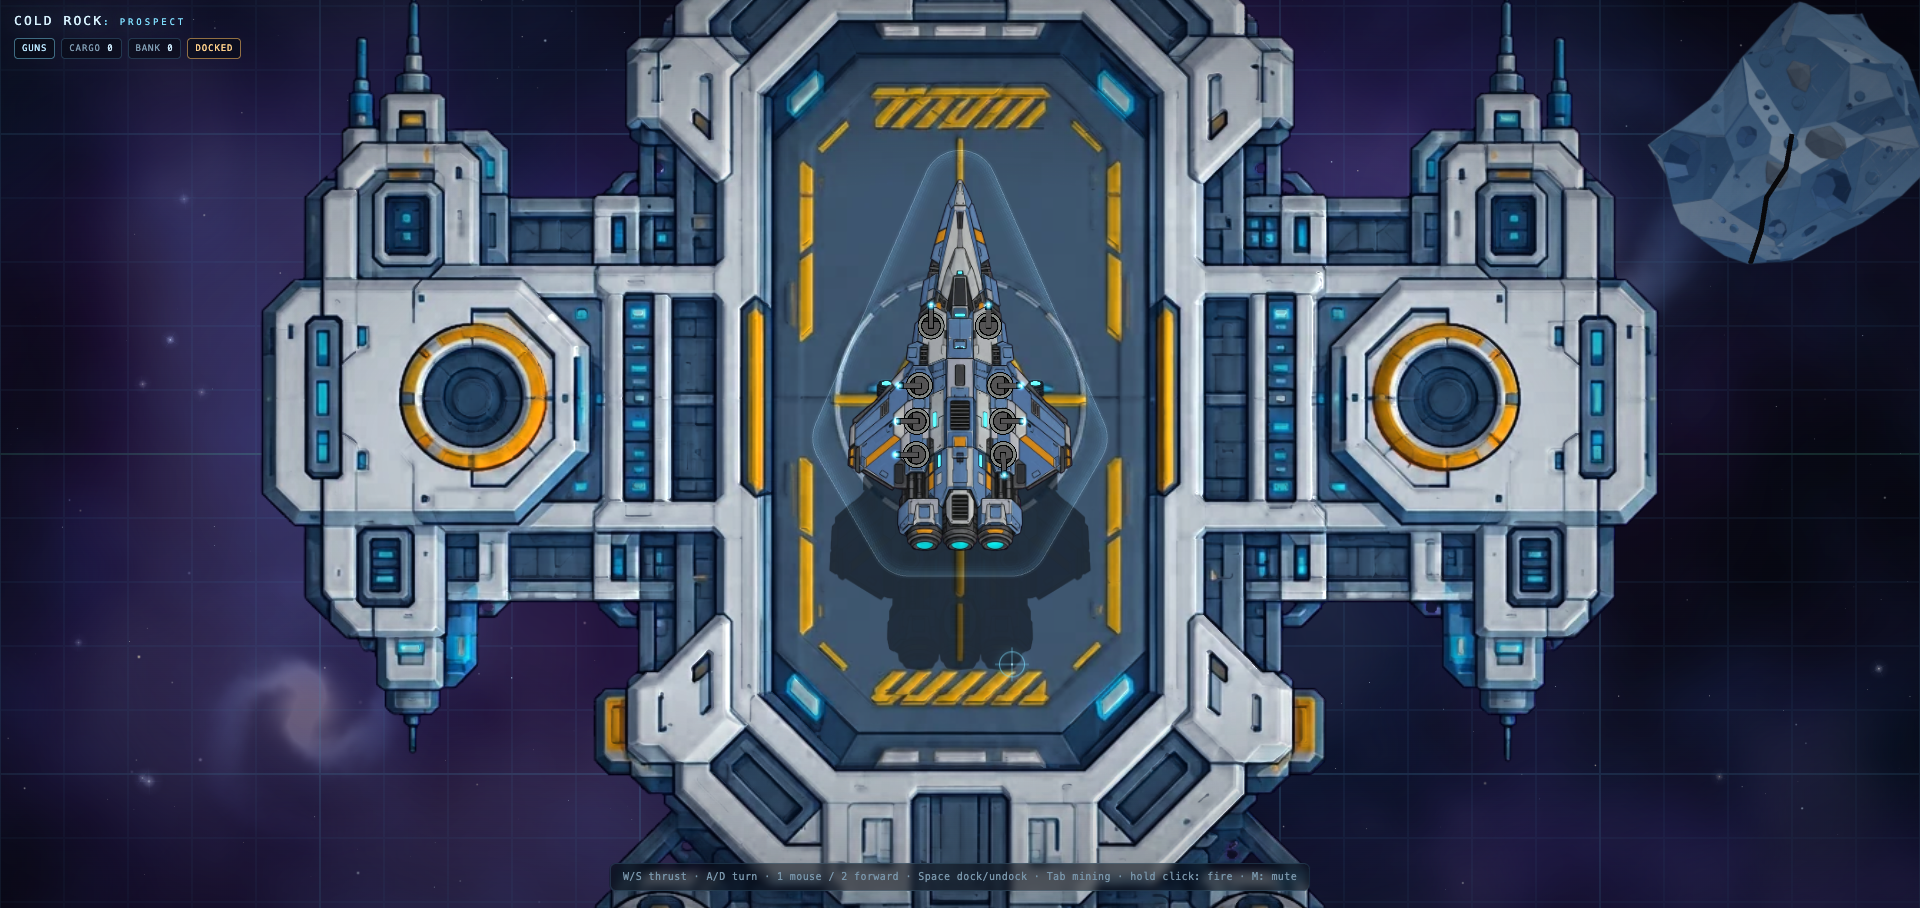
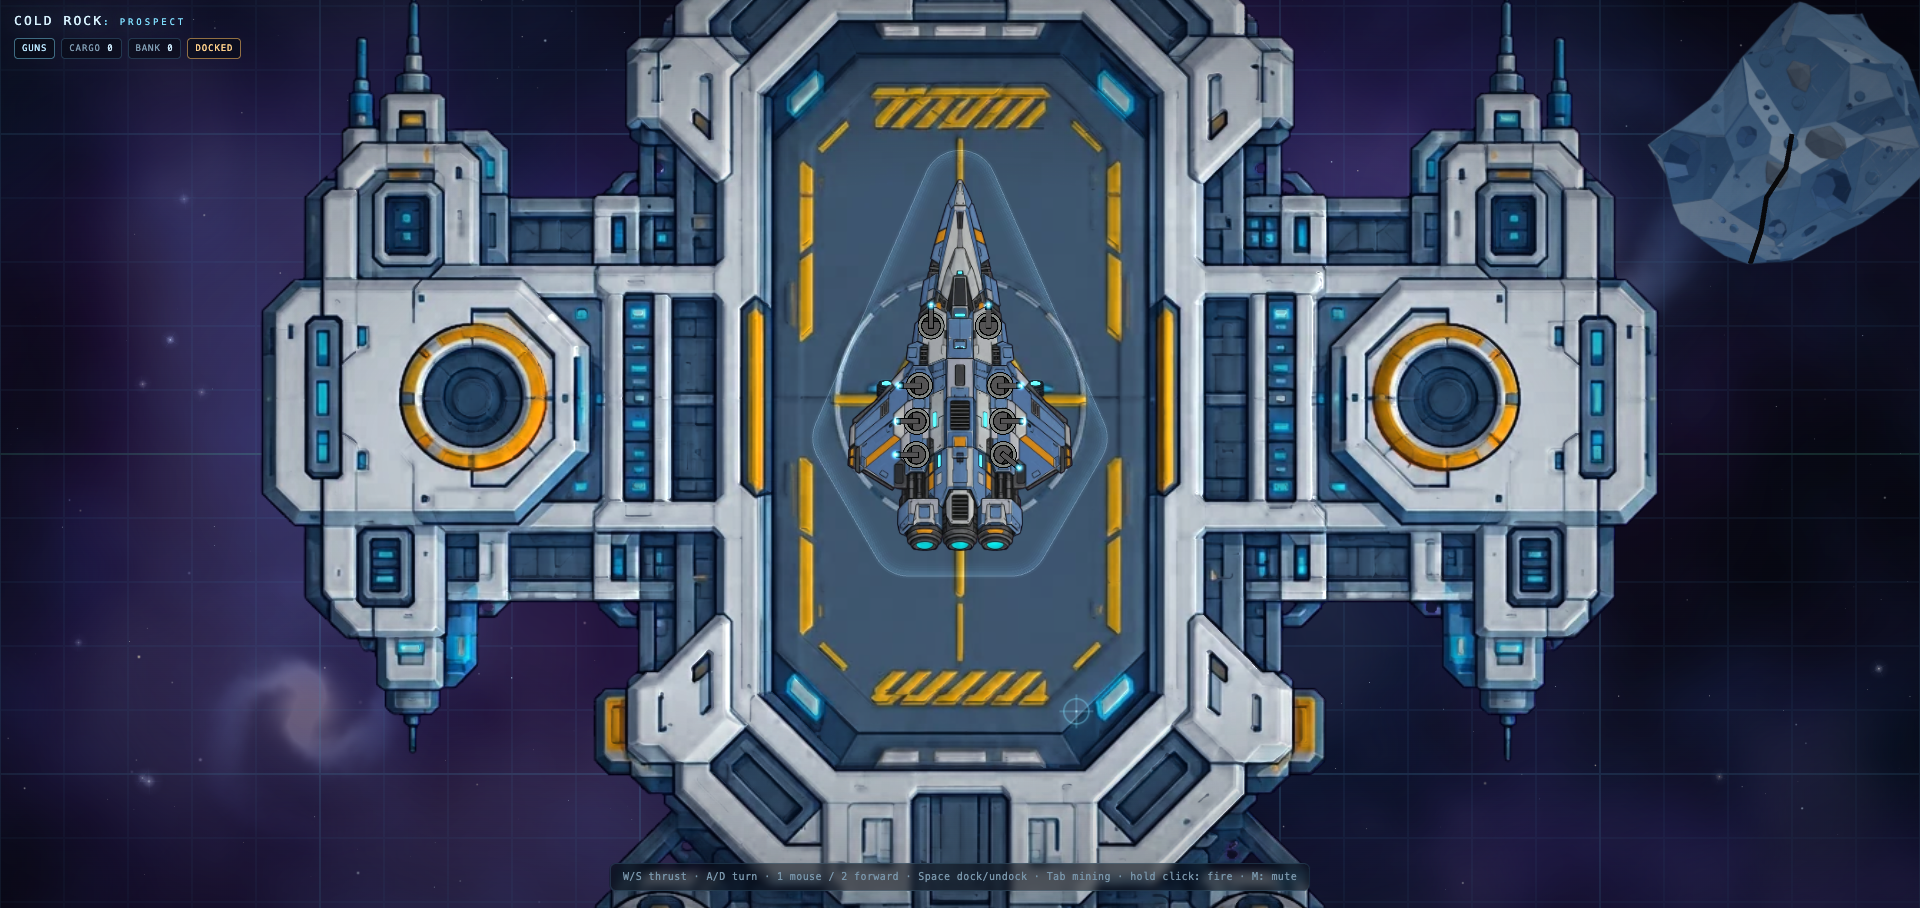
fix: keep the ship shadow attached while flying

Changed region(s): [[0.4062, 0.5242, 0.5938, 0.7401], [0.5, 0.4934, 0.5312, 0.5242]]

diff --git a/src/app/dock.ts b/src/app/dock.ts
@@ -87,22 +87,20 @@ export function createDock(
 
       // Fake pad shadow: it stays on the seat, fades and spreads as the ship
       // climbs away, and tightens under the hull when docked.
-      const seat = { x: tuning.xM, y: visualY + DOCK_SEAT_OFFSET_M };
+      // The shadow belongs to the ship, not the pad: it follows the ship's
+      // ground projection and slides away from it as altitude increases.
       const height = frame.docked
         ? 0
         : Math.min(1, frame.distanceM / Math.max(1, DOCK_APPROACH_RANGE_M));
-      // Light is up-left, so a climbing ship throws its shadow down-right.
       const shadowScreen = worldToScreen(
-        seat.x + height * DOCK_SHADOW_OFFSET_M,
-        seat.y + height * DOCK_SHADOW_OFFSET_M * 0.85,
+        frame.shipX + height * DOCK_SHADOW_OFFSET_M,
+        frame.shipY + height * DOCK_SHADOW_OFFSET_M * 0.85,
         frame,
       );
       shadow.position.set(shadowScreen.x, shadowScreen.y);
-      shadow.rotation = frame.docked ? frame.shipRotation : 0;
-      shadow.scale.set(
-        frame.shipScale * frame.zoom * recedeScale * (frame.docked ? 1 : 1 + height * 0.32),
-      );
-      shadow.alpha = frame.docked ? 0.5 : Math.max(0.08, 0.38 - height * 0.3);
+      shadow.rotation = frame.shipRotation;
+      shadow.scale.set(frame.shipScale * frame.zoom * (1 + height * 0.3));
+      shadow.alpha = frame.docked ? 0.46 : Math.max(0.1, 0.4 - height * 0.26);
 
       pulse = Math.max(0, pulse - frame.dt * 1.8);
       landingRing.clear();

diff --git a/src/app/lighting-scene.ts b/src/app/lighting-scene.ts
@@ -674,8 +674,8 @@ export async function createScene(
       width,
       height,
       dt: deltaSeconds,
-      shipX: flight.x,
-      shipY: flight.y,
+      shipX: shipCentre().x,
+      shipY: shipCentre().y,
       shipRotation: flight.rotation,
       shipScale: shipBaseScale * shipDockScale,
       docked,
@@ -923,8 +923,8 @@ export async function createScene(
     const shipSpeed = Math.hypot(flight.vx, flight.vy);
     const seat = dock.getSeat();
     const alignment = dockAlignment({
-      shipX: flight.x,
-      shipY: flight.y,
+      shipX: shipCentre().x,
+      shipY: shipCentre().y,
       shipRotation: flight.rotation,
       speedMps: shipSpeed,
       targetX: seat.x,

diff --git a/docs/GAMEPLAY.md b/docs/GAMEPLAY.md
@@ -121,8 +121,8 @@ docking is never automatic. The pill changes to `DOCKING` during the approach an
 With no Z axis, scale carries the height cue. The ship is drawn at **0.86×** while docked (lower
 in the pad) and grows back to **1×** as it rises on undock. The station is full-size when docked
 and recedes to about **0.68×** at the outer approach edge, then grows back as the ship lines up
-to land. The fake ship shadow tightens under the hull when docked, then slides down-right,
-spreads and fades as the ship gains altitude.
+to land. The fake ship shadow is attached to the ship, so it flies with it; it tightens under the hull when
+docked, then slides down-right, spreads and fades as the ship gains altitude.
 
 ![Station dock with the ship on its landing pad](visuals/13-dock.png)
 
